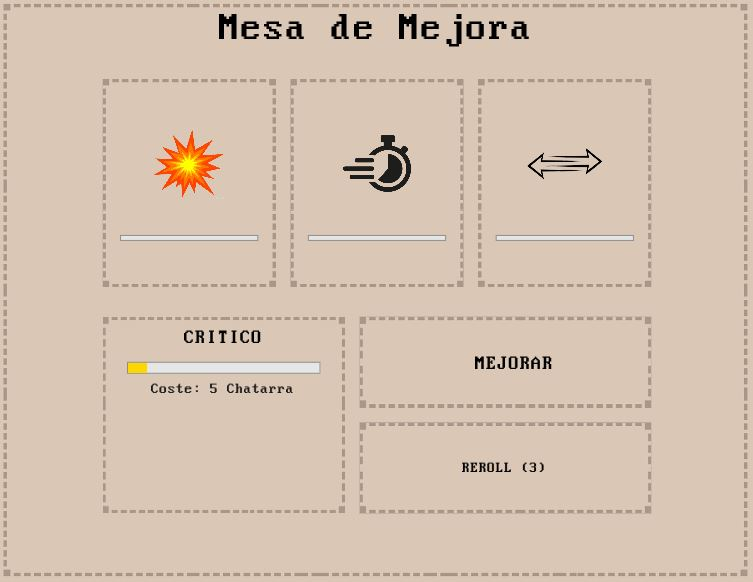
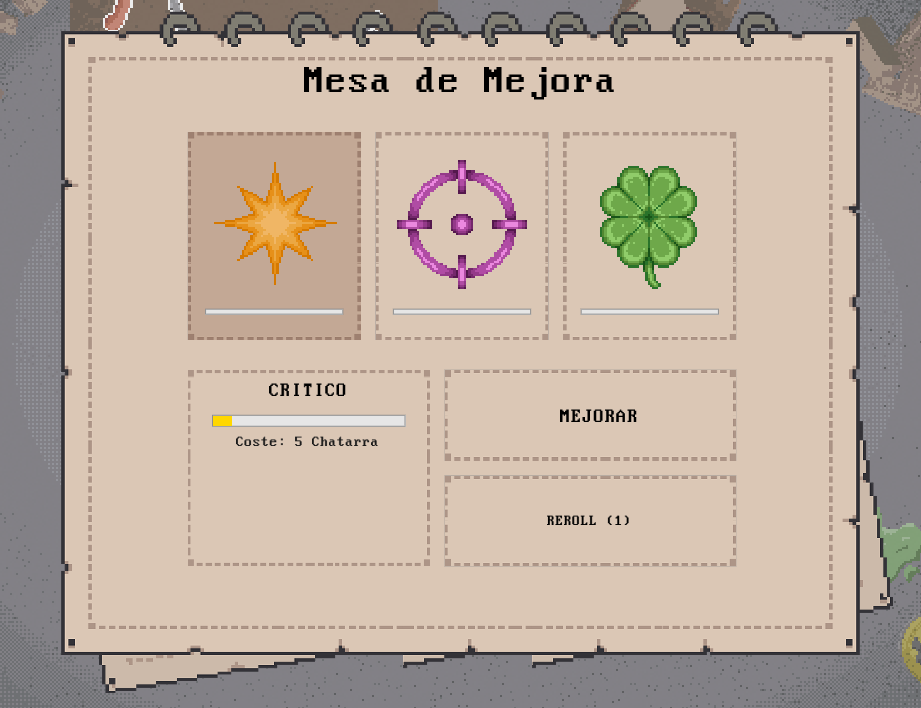
imagenes y datos actualizados
roles del equipo, links, imagenes y creditos actualizados

diff --git a/index.html b/index.html
@@ -380,7 +380,7 @@
                 </div>
 
                 <div class="download">
-                    <a class="download-card" href="https://julsv.itch.io/atrapalabras" target="_blank" rel="noopener">
+                    <a class="download-card" href="https://julsv.itch.io/bunkers-inc" target="_blank" rel="noopener">
                         <div class="download-card__icon">
                             <svg width="40" height="40" viewBox="0 0 24 24" fill="currentColor">
                                 <path
@@ -434,10 +434,10 @@
                 <div class="team">
                     <!-- Por cada miembro: cambia data-initial, el nombre, el rol y el href de GitHub -->
                     <a class="member" href="https://github.com/A2stedB" target="_blank" rel="noopener">
-                        <div class="member__avatar" data-initial="A"></div>
+                        <div class="member__avatar" data-initial="H"></div>
                         <div class="member__info">
                             <span class="member__name">He Deng</span>
-                            <span class="member__role">Rol en el equipo</span>
+                            <span class="member__role">Programador</span>
                             <span class="member__handle">@A2stedB</span>
                         </div>
                     </a>
@@ -445,23 +445,23 @@
                         <div class="member__avatar" data-initial="A"></div>
                         <div class="member__info">
                             <span class="member__name">Alejandro Bueno</span>
-                            <span class="member__role">Rol en el equipo</span>
+                            <span class="member__role">Programador / Diseñador de mapa / Soporte UI</span>
                             <span class="member__handle">@Axelbc42</span>
                         </div>
                     </a>
                     <a class="member" href="https://github.com/CapitanManzana" target="_blank" rel="noopener">
-                        <div class="member__avatar" data-initial="C"></div>
+                        <div class="member__avatar" data-initial="S"></div>
                         <div class="member__info">
                             <span class="member__name">Samuel Manzaneque</span>
-                            <span class="member__role">Rol en el equipo</span>
+                            <span class="member__role">Programador / Arte / Músico</span>
                             <span class="member__handle">@CapitanManzana</span>
                         </div>
                     </a>
                     <a class="member" href="https://github.com/Cicl0" target="_blank" rel="noopener">
-                        <div class="member__avatar" data-initial="C"></div>
+                        <div class="member__avatar" data-initial="A"></div>
                         <div class="member__info">
                             <span class="member__name">Alejandro García</span>
-                            <span class="member__role">Rol en el equipo</span>
+                            <span class="member__role">Programador</span>
                             <span class="member__handle">@Cicl0</span>
                         </div>
                     </a>
@@ -469,7 +469,7 @@
                         <div class="member__avatar" data-initial="G"></div>
                         <div class="member__info">
                             <span class="member__name">Gabriel García</span>
-                            <span class="member__role">Rol en el equipo</span>
+                            <span class="member__role">Programador</span>
                             <span class="member__handle">@Gabuu0</span>
                         </div>
                     </a>
@@ -477,7 +477,7 @@
                         <div class="member__avatar" data-initial="I"></div>
                         <div class="member__info">
                             <span class="member__name">Inés de la Peña</span>
-                            <span class="member__role">Rol en el equipo</span>
+                            <span class="member__role">Programador / Diseñador de interfaces / Artista</span>
                             <span class="member__handle">@InesUcm</span>
                         </div>
                     </a>
@@ -485,7 +485,7 @@
                         <div class="member__avatar" data-initial="I"></div>
                         <div class="member__info">
                             <span class="member__name">Iria Docampo</span>
-                            <span class="member__role">Rol en el equipo</span>
+                            <span class="member__role">Programador / Arte</span>
                             <span class="member__handle">@i1dzz</span>
                         </div>
                     </a>
@@ -493,7 +493,7 @@
                         <div class="member__avatar" data-initial="J"></div>
                         <div class="member__info">
                             <span class="member__name">Javier Librada</span>
-                            <span class="member__role">Rol en el equipo</span>
+                            <span class="member__role">Programador / Diseñador de interfaces</span>
                             <span class="member__handle">@javierlibrada06</span>
                         </div>
                     </a>
@@ -501,15 +501,15 @@
                         <div class="member__avatar" data-initial="J"></div>
                         <div class="member__info">
                             <span class="member__name">Julia Vera</span>
-                            <span class="member__role">Rol en el equipo</span>
+                            <span class="member__role">Programador / Diseñador de interfaces</span>
                             <span class="member__handle">@Juliiaa24</span>
                         </div>
                     </a>
                     <a class="member" href="https://github.com/kokote888" target="_blank" rel="noopener">
-                        <div class="member__avatar" data-initial="K"></div>
+                        <div class="member__avatar" data-initial="D"></div>
                         <div class="member__info">
                             <span class="member__name">Diego Jiménez</span>
-                            <span class="member__role">Rol en el equipo</span>
+                            <span class="member__role">Programador / Diseñador</span>
                             <span class="member__handle">@kokote888</span>
                         </div>
                     </a>
@@ -517,7 +517,7 @@
                         <div class="member__avatar" data-initial="R"></div>
                         <div class="member__info">
                             <span class="member__name">Ricardo Luy</span>
-                            <span class="member__role">Rol en el equipo</span>
+                            <span class="member__role">Programador / Scrum Master / Animaciones</span>
                             <span class="member__handle">@rluy02</span>
                         </div>
                     </a>
@@ -615,6 +615,57 @@
                             target="_blank" rel="noopener">Ver en Sketchfab →</a>
                         <span class="credit__license">CC Attribution-NonCommercial</span>
                     </li>
+                    <li class="credit">
+                        <span class="credit__source">Pixabay · freesound_community</span>
+                        <p class="credit__desc">Efectos de sonido varios: cerrar libro, estampar sello, hover y click de
+                            botón, dormir (1 y 2), logro / descubrimiento, recoger y soltar items del inventario,
+                            notificación de "no puedes dejar esto aquí", disparo de arco de enemigos, pasos, page flip,
+                            radio static y anvil hit.</p>
+                        <a class="credit__link" href="https://pixabay.com/" target="_blank" rel="noopener">pixabay.com
+                            →</a>
+                    </li>
+                    <li class="credit">
+                        <span class="credit__source">Pixabay · Emiliano Dleon</span>
+                        <p class="credit__desc">Sonido de presionar botón (UI).</p>
+                        <a class="credit__link" href="https://pixabay.com/" target="_blank" rel="noopener">pixabay.com
+                            →</a>
+                    </li>
+                    <li class="credit">
+                        <span class="credit__source">Pixabay · DRAGON-STUDIO</span>
+                        <p class="credit__desc">Sonido de dormir (3) y ataque del jugador.</p>
+                        <a class="credit__link" href="https://pixabay.com/" target="_blank" rel="noopener">pixabay.com
+                            →</a>
+                    </li>
+                    <li class="credit">
+                        <span class="credit__source">Pixabay · Yodguard</span>
+                        <p class="credit__desc">Ataques cuerpo a cuerpo de los enemigos.</p>
+                        <a class="credit__link" href="https://pixabay.com/" target="_blank" rel="noopener">pixabay.com
+                            →</a>
+                    </li>
+                    <li class="credit">
+                        <span class="credit__source">Pixabay · Kuzu</span>
+                        <p class="credit__desc">Sonido del tutorial escribiéndose en pantalla.</p>
+                        <a class="credit__link" href="https://pixabay.com/" target="_blank" rel="noopener">pixabay.com
+                            →</a>
+                    </li>
+                    <li class="credit">
+                        <span class="credit__source">Pixabay · u_nfmiq7z9as</span>
+                        <p class="credit__desc">Sonido de muerte del jugador.</p>
+                        <a class="credit__link" href="https://pixabay.com/" target="_blank" rel="noopener">pixabay.com
+                            →</a>
+                    </li>
+                    <li class="credit">
+                        <span class="credit__source">Pixabay · M_R_Fahrenheit</span>
+                        <p class="credit__desc">Ambiente de sabana.</p>
+                        <a class="credit__link" href="https://pixabay.com/" target="_blank" rel="noopener">pixabay.com
+                            →</a>
+                    </li>
+                    <li class="credit">
+                        <span class="credit__source">Pixabay · Universfield</span>
+                        <p class="credit__desc">Sonido de puerta metálica abriéndose.</p>
+                        <a class="credit__link" href="https://pixabay.com/" target="_blank" rel="noopener">pixabay.com
+                            →</a>
+                    </li>
                 </ul>
             </div>
         </section>
@@ -635,8 +686,9 @@
             </div>
 
             <ul class="footer__links">
-                <li><a href="https://github.com/YOUR_ORG/2HN" target="_blank" rel="noopener">Repositorio GitHub</a></li>
-                <li><a href="https://YOUR_USER.itch.io/bunkers-inc" target="_blank" rel="noopener">itch.io</a></li>
+                <li><a href="https://github.com/rluy02/Bunkers-Inc" target="_blank" rel="noopener">Repositorio
+                        GitHub</a></li>
+                <li><a href="https://julsv.itch.io/bunkers-inc" target="_blank" rel="noopener">itch.io</a></li>
                 <li><a href="#equipo">Créditos</a></li>
                 <li><a href="#referencias">Referencias</a></li>
             </ul>

diff --git a/styles.css b/styles.css
@@ -722,20 +722,22 @@ strong { color: var(--accent-bright); font-weight: 700; }
     border: 1px solid var(--border);
     border-radius: var(--radius);
     overflow: hidden;
-    background: var(--bg-panel);
+    background: var(--bg-deepest);
     transition: transform 0.25s ease, border-color 0.25s ease;
     position: relative;
-    aspect-ratio: 16 / 10;
+    aspect-ratio: 16 / 9;
 }
-.gallery__item--wide { grid-column: span 2; }
 
 .gallery__item img {
     width: 100%;
     height: 100%;
     object-fit: cover;
+    object-position: center;        /* ← explícito, por si quieres ajustarlo por imagen */
     transition: transform 0.4s ease, filter 0.3s ease;
     filter: saturate(0.9) contrast(1.05);
 }
+
+
 .gallery__item:hover {
     transform: translateY(-3px);
     border-color: var(--accent);

diff --git a/README.md b/README.md
@@ -4,7 +4,7 @@ Sitio web del videojuego **Bunkers Inc.**, un roguelike de supervivencia post-ap
 
 🌐 **[Ver sitio en vivo](https://rluy02.github.io/Bunkers-Inc/)**
 
-🎮 **[Jugar en itch.io](https://tu-usuario.itch.io/bunkers-inc)**
+🎮 **[Jugar en itch.io](https://julsv.itch.io/bunkers-inc)**
 
 ---
 
@@ -25,17 +25,17 @@ Este repo contiene únicamente el **código fuente de la web** del juego. El có
 
 | GitHub | Rol |
 |---|---|
-| [@A2stedB](https://github.com/A2stedB) | _Por definir_ |
-| [@Axelbc42](https://github.com/Axelbc42) | _Por definir_ |
-| [@CapitanManzana](https://github.com/CapitanManzana) | _Por definir_ |
-| [@Cicl0](https://github.com/Cicl0) | _Por definir_ |
-| [@Gabuu0](https://github.com/Gabuu0) | _Por definir_ |
-| [@InesUcm](https://github.com/InesUcm) | _Por definir_ |
-| [@i1dzz](https://github.com/i1dzz) | _Por definir_ |
-| [@javierlibrada06](https://github.com/javierlibrada06) | _Por definir_ |
-| [@Juliiaa24](https://github.com/Juliiaa24) | _Por definir_ |
-| [@kokote888](https://github.com/kokote888) | _Por definir_ |
-| [@rluy02](https://github.com/rluy02) | _Por definir_ |
+| [@A2stedB](https://github.com/A2stedB) | Programador |
+| [@Axelbc42](https://github.com/Axelbc42) | Programador /  Diseñador de mapa / Soporte UI |
+| [@CapitanManzana](https://github.com/CapitanManzana) | Programador / Arte / Músico |
+| [@Cicl0](https://github.com/Cicl0) | Programador |
+| [@Gabuu0](https://github.com/Gabuu0) | Programador |
+| [@InesUcm](https://github.com/InesUcm) | Programador / Diseñador de interfaces / Artista |
+| [@i1dzz](https://github.com/i1dzz) | Programador / Arte |
+| [@javierlibrada06](https://github.com/javierlibrada06) | Programador /  Diseñador de interfaces |
+| [@Juliiaa24](https://github.com/Juliiaa24) | Programador /  Diseñador de interfaces |
+| [@kokote888](https://github.com/kokote888) | Programador / Diseñador |
+| [@rluy02](https://github.com/rluy02) | Programador / Scrum Master / Animaciones |
 
 ## Licencia
 